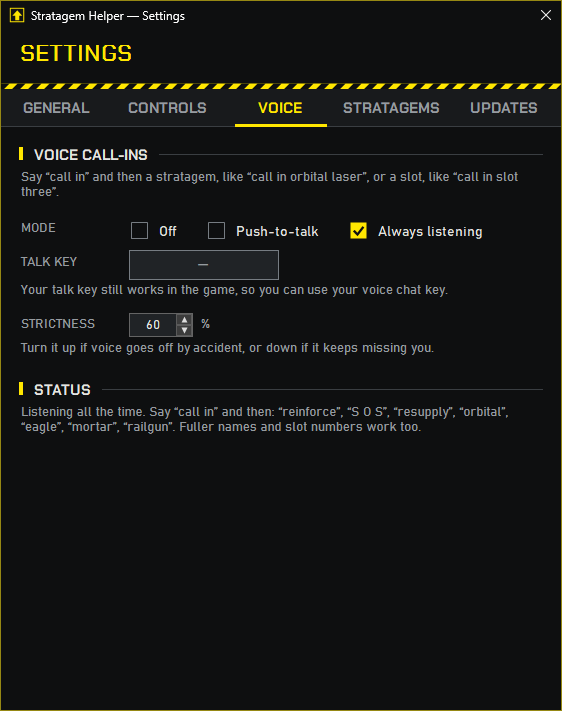
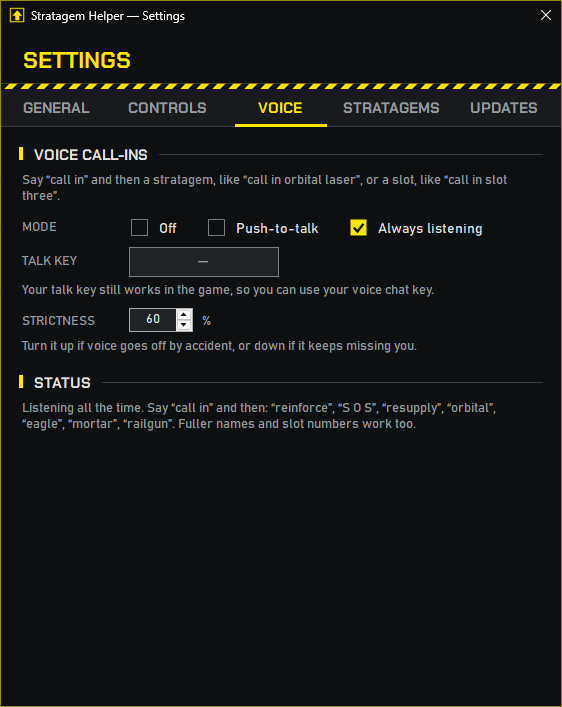
Draw screenshot text the same way as the app
The screenshot tool skipped the app's Windows Forms setup, so its labels used GDI+ text, which spaced the headings wider and made them look clipped. Screenshots now match the running app pixel for pixel.

diff --git a/tools/OcrTest/Program.cs b/tools/OcrTest/Program.cs
@@ -4,6 +4,12 @@
 using System.Drawing;
 using StratagemHelper;
 
+// Same Windows Forms setup as the app (ApplicationConfiguration.Initialize there), so windows and screenshots
+// match it. Without SetCompatibleTextRenderingDefault(false), labels draw with GDI+, which spaces text wider.
+Application.EnableVisualStyles();
+Application.SetCompatibleTextRenderingDefault(false);
+Application.SetHighDpiMode(HighDpiMode.SystemAware);
+
 if (args.Contains("--voice")) return FeatureTests.Voice() + FeatureTests.Stats();
 if (args.Contains("--keys")) return FeatureTests.Keys();
 if (args.Contains("--overlay")) { FeatureTests.Overlay(6); return 0; }
